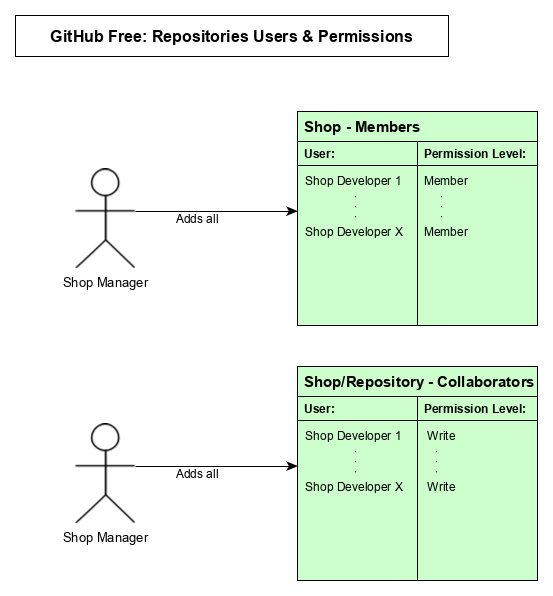
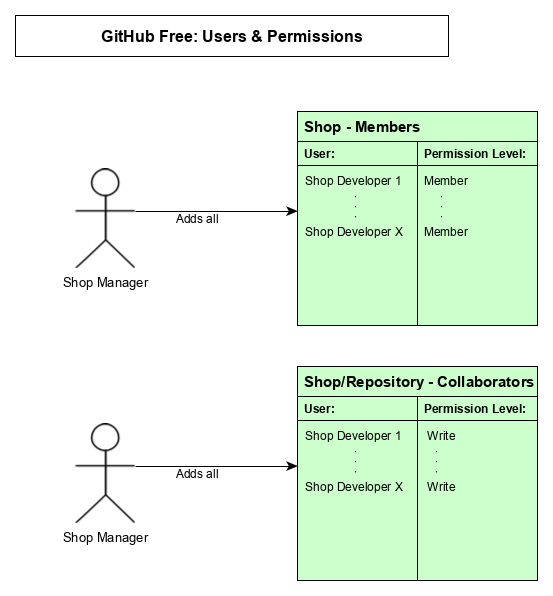
Updated file names and titles for consistency

Changed region(s): [[0.0922, 0.0302, 0.7378, 0.0906]]

diff --git a/docs/dev/shop-setup/GitLab_Gold.md b/docs/dev/shop-setup/GitLab_Gold.md
@@ -4,7 +4,7 @@
 
 ### Setting up groups and user permissions:
 
-![GitLab Gold Option 1 Users & Permissions Diagram](https://github.com/LibreFoodPantry/ProjectTemplate/tree/master/docs/dev/shop-setup/diagrams/GitLab_Gold_Setup_Option1_Users_And_Permissions.png)
+![GitLab Gold Option 1 Users & Permissions Diagram](https://raw.githubusercontent.com/LibreFoodPantry/ProjectTemplate/shop_setup_documentation/docs/dev/shop-setup/diagrams/GitLab_Gold_Setup_Option1_Users_And_Permissions.png)
 
 #### Trustee:
 
@@ -22,7 +22,7 @@
 
 ### Setting up the shop issue board:
 
-![GitLab Shop Board Diagram](https://github.com/LibreFoodPantry/ProjectTemplate/tree/master/docs/dev/shop-setup/diagrams/GitLab_Setup_Shop_Board.png)
+![GitLab Shop Board Diagram](https://raw.githubusercontent.com/LibreFoodPantry/ProjectTemplate/shop_setup_documentation/docs/dev/shop-setup/diagrams/GitLab_Setup_Shop_Board.png)
 
 #### Shop Manager:
 
@@ -39,7 +39,7 @@
 
 ### Setting up the project:
 
-![GitLab Gold Option 1 Groups & Projects Diagram](https://github.com/LibreFoodPantry/ProjectTemplate/tree/master/docs/dev/shop-setup/diagrams/GitLab_Gold_Setup_Option1_Groups_And_Projects.png)
+![GitLab Gold Option 1 Groups & Projects Diagram](https://raw.githubusercontent.com/LibreFoodPantry/ProjectTemplate/shop_setup_documentation/docs/dev/shop-setup/diagrams/GitLab_Gold_Setup_Option1_Groups_And_Projects.png)
 
 #### Shop Manager:
 
@@ -51,7 +51,7 @@
 
 ### Setting up groups and user permissions:
 
-![GitLab Gold Standalone Group Users & Permissions Diagram](https://github.com/LibreFoodPantry/ProjectTemplate/tree/master/docs/dev/shop-setup/diagrams/GitLab_Standalone_Group_Users_And_Permissions.png)
+![GitLab Gold Standalone Group Users & Permissions Diagram](https://raw.githubusercontent.com/LibreFoodPantry/ProjectTemplate/shop_setup_documentation/docs/dev/shop-setup/diagrams/GitLab_Standalone_Group_Setup_Users_And_Permissions.png)
 
 #### Trustee:
 
@@ -67,7 +67,7 @@
 
 ### Setting up the shop issue board:
 
-![GitLab Shop Board Diagram](https://github.com/LibreFoodPantry/ProjectTemplate/tree/master/docs/dev/shop-setup/diagrams/GitLab_Setup_Shop_Board.png)
+![GitLab Shop Board Diagram](https://raw.githubusercontent.com/LibreFoodPantry/ProjectTemplate/shop_setup_documentation/docs/dev/shop-setup/diagrams/GitLab_Setup_Shop_Board.png)
 
 #### Shop Manager:
 
@@ -84,7 +84,8 @@
 
 ### Setting up the project:
 
-![GitLab Gold Standalone Group Groups & Projects Diagram](https://github.com/LibreFoodPantry/ProjectTemplate/tree/master/docs/dev/shop-setup/diagrams/GitLab_Standalone_Group_Groups_And_Projects.png)
+![GitLab Gold Standalone Group Groups & Projects Diagram](https://raw.githubusercontent.com/LibreFoodPantry/ProjectTemplate/shop_setup_documentation/docs/dev/shop-setup/diagrams/GitLab_Standalone_Group_Groups_And_Projects.png)
+
 
 #### Shop Manager:
 

diff --git a/docs/dev/shop-setup/GitLab_Free.md b/docs/dev/shop-setup/GitLab_Free.md
@@ -2,7 +2,7 @@
 
 ### Setting up groups and user permissions:
 
-![GitLab Standalone Group Users & Permissions Diagram](https://github.com/LibreFoodPantry/ProjectTemplate/tree/master/docs/dev/shop-setup/diagrams/GitLab_Standalone_Group_Users_And_Permissions.png)
+![GitLab Standalone Group Users & Permissions Diagram](https://raw.githubusercontent.com/LibreFoodPantry/ProjectTemplate/shop_setup_documentation/docs/dev/shop-setup/diagrams/GitLab_Standalone_Group_Setup_Users_And_Permissions.png)
 
 #### Trustee:
 
@@ -18,7 +18,7 @@
 
 ### Setting up the shop issue board:
 
-![GitLab Shop Board Diagram](https://github.com/LibreFoodPantry/ProjectTemplate/tree/master/docs/dev/shop-setup/diagrams/GitLab_Setup_Shop_Board.png)
+![GitLab Shop Board Diagram](https://raw.githubusercontent.com/LibreFoodPantry/ProjectTemplate/shop_setup_documentation/docs/dev/shop-setup/diagrams/GitLab_Setup_Shop_Board.png)
 
 #### Shop Manager:
 
@@ -35,7 +35,7 @@
 
 ### Setting up the project:
 
-![GitLab Standalone Group Groups & Projects Diagram](https://github.com/LibreFoodPantry/ProjectTemplate/tree/master/docs/dev/shop-setup/diagrams/GitLab_Standalone_Group_Groups_And_Projects.png)
+![GitLab Standalone Group Groups & Projects Diagram](https://raw.githubusercontent.com/LibreFoodPantry/ProjectTemplate/shop_setup_documentation/docs/dev/shop-setup/diagrams/GitLab_Standalone_Group_Groups_And_Projects.png)
 
 #### Shop Manager:
 

diff --git a/docs/dev/shop-setup/GitHub_Free.md b/docs/dev/shop-setup/GitHub_Free.md
@@ -2,7 +2,7 @@
 
 ### Setting up the organization and user permissions:
 
-![GitHub Free Permissions Diagram](https://github.com/LibreFoodPantry/ProjectTemplate/tree/master/docs/dev/shop-setup/diagrams/GitHub_Free_Setup_Users_And_Permissions.png)
+![GitHub Free Permissions Diagram](https://raw.githubusercontent.com/LibreFoodPantry/ProjectTemplate/shop_setup_documentation/docs/dev/shop-setup/diagrams/GitHub_Free_Setup_Users_And_Permissions.png)
 
 
 #### Shop Manager:
@@ -13,7 +13,7 @@
 
 ### Setting up the shop project board:
 
-![GitHub Shop Board Diagram](https://github.com/LibreFoodPantry/ProjectTemplate/tree/master/docs/dev/shop-setup/diagrams/GitHub_Setup_Shop_Board.png)
+![GitHub Shop Board Diagram](https://raw.githubusercontent.com/LibreFoodPantry/ProjectTemplate/shop_setup_documentation/docs/dev/shop-setup/diagrams/GitHub_Setup_Shop_Board.png)
 
 
 #### Shop Manager:
@@ -30,7 +30,7 @@
 
 ### Setting up the repository:
 
-![GitHub Organizations and Repositories Diagram](https://github.com/LibreFoodPantry/ProjectTemplate/tree/master/docs/dev/shop-setup/diagrams/GitHub_Free_Organizations_And_Repositories.png)
+![GitHub Organizations and Repositories Diagram](https://raw.githubusercontent.com/LibreFoodPantry/ProjectTemplate/shop_setup_documentation/docs/dev/shop-setup/diagrams/GitHub_Free_Organizations_And_Repositories.png)
 
 #### Shop Manager:
 
